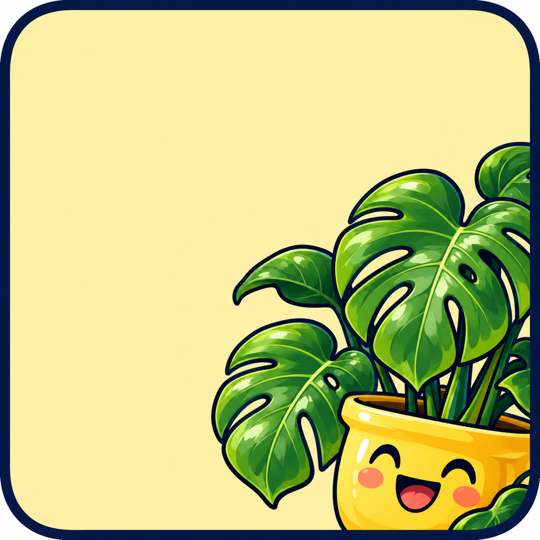
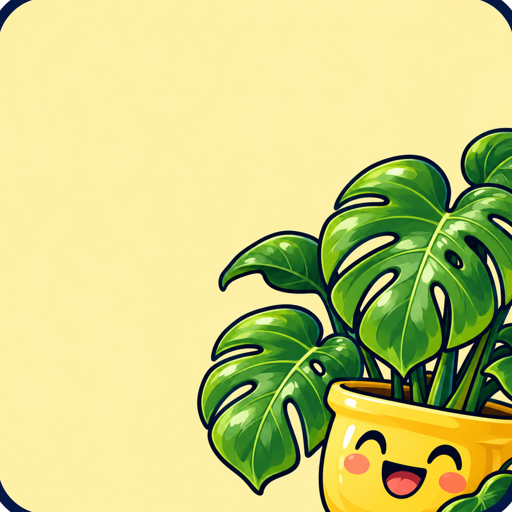
Widget: draw the sticker outline in SwiftUI, art without its baked-in frame
The art carried its own border and rounded corners, which iOS cropped and masked: the medium
widget lost its top and bottom border and the pots' faces. The art is now trimmed to the scene
(medium recomposed to the widget's shape, plants to the right, sky behind the words) and the ink
outline is traced along the widget's own corners in every state, All done included, as mocked up.

Claude-Session: https://claude.ai/code/session_015RxAJdHfQtruXpuwTDDmmx

diff --git a/targets/widget/PlantRound.swift b/targets/widget/PlantRound.swift
@@ -260,7 +260,15 @@ struct RoundView: View {
     .accessibilityElement(children: .combine)
   }
 
-  @ViewBuilder private var background: some View {
+  /// The art, or a flat sticker colour, with the sticker's ink outline traced along the widget's own corners.
+  private var background: some View {
+    ZStack {
+      fill
+      ContainerRelativeShape().strokeBorder(ink, lineWidth: 3)
+    }
+  }
+
+  @ViewBuilder private var fill: some View {
     if family == .systemMedium {
       Image("mediumBackground").resizable().scaledToFill()
     } else if entry.due.isEmpty {
